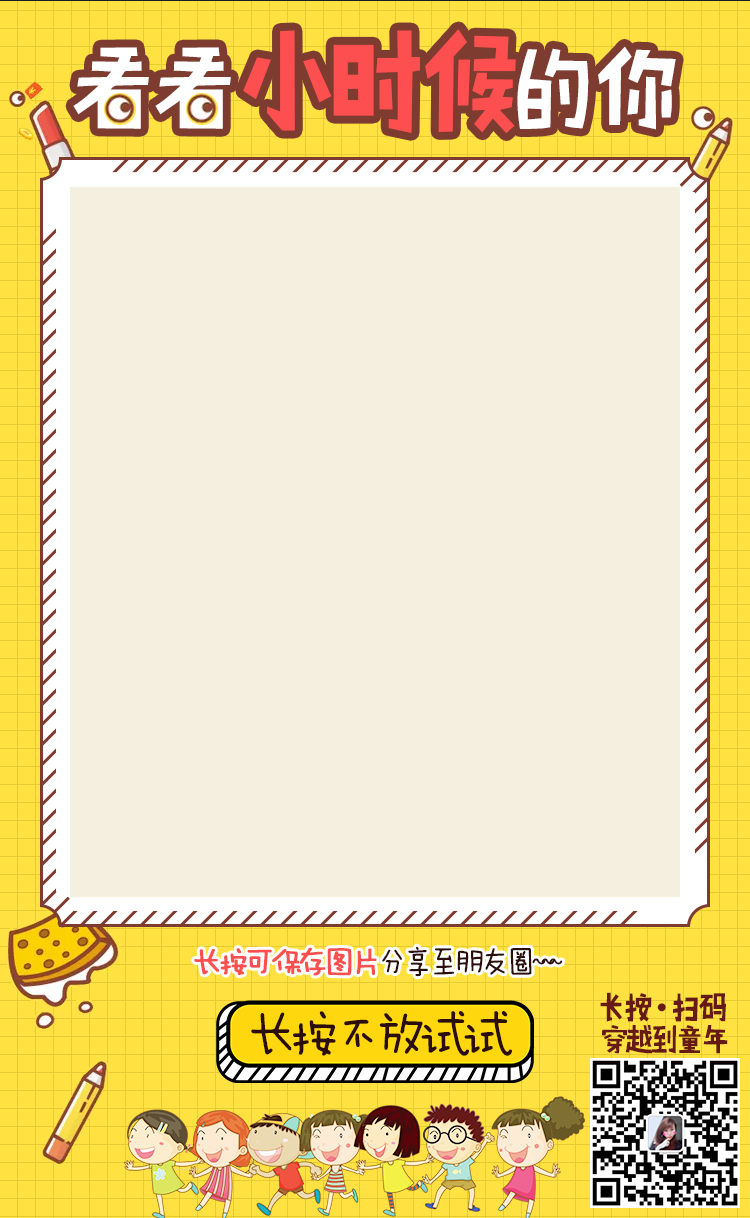
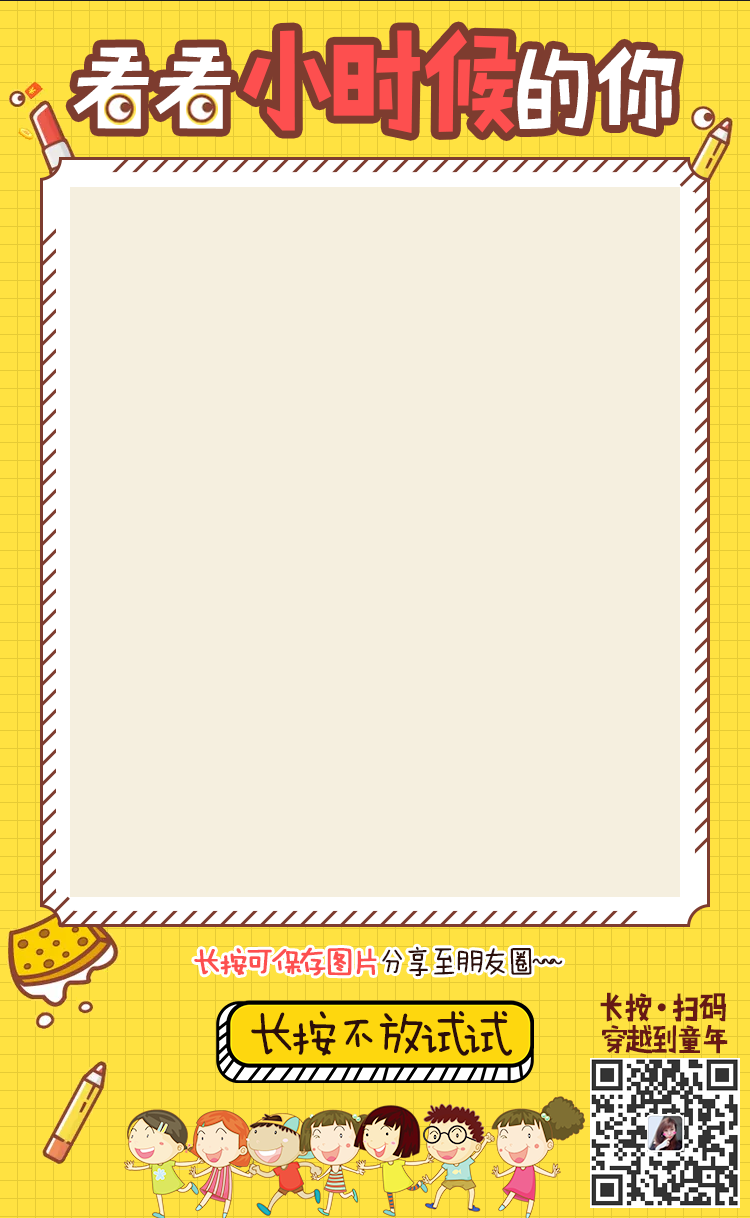
图片修改~

Changed region(s): [[0.7667, 0.8424, 1.0, 0.9984]]

diff --git a/src/start.js b/src/start.js
@@ -63,7 +63,7 @@
 
         //加载装饰6
         start_hua_6 = new Sprite();
-        start_hua_6.loadImage(ossUrl+"res/images/hua_6.png", pageWidth*0.25, pageHeight*0.77, pageWidth*0.5, (pageWidth*0.5)*(37/375));
+        start_hua_6.loadImage(ossUrl+"res/images/hua_6.png", pageWidth*0.18, pageHeight*0.77, pageWidth*0.64, (pageWidth*0.64)*(37/482));
         Laya.stage.addChild(start_hua_6);
 
         //加载QRCode
